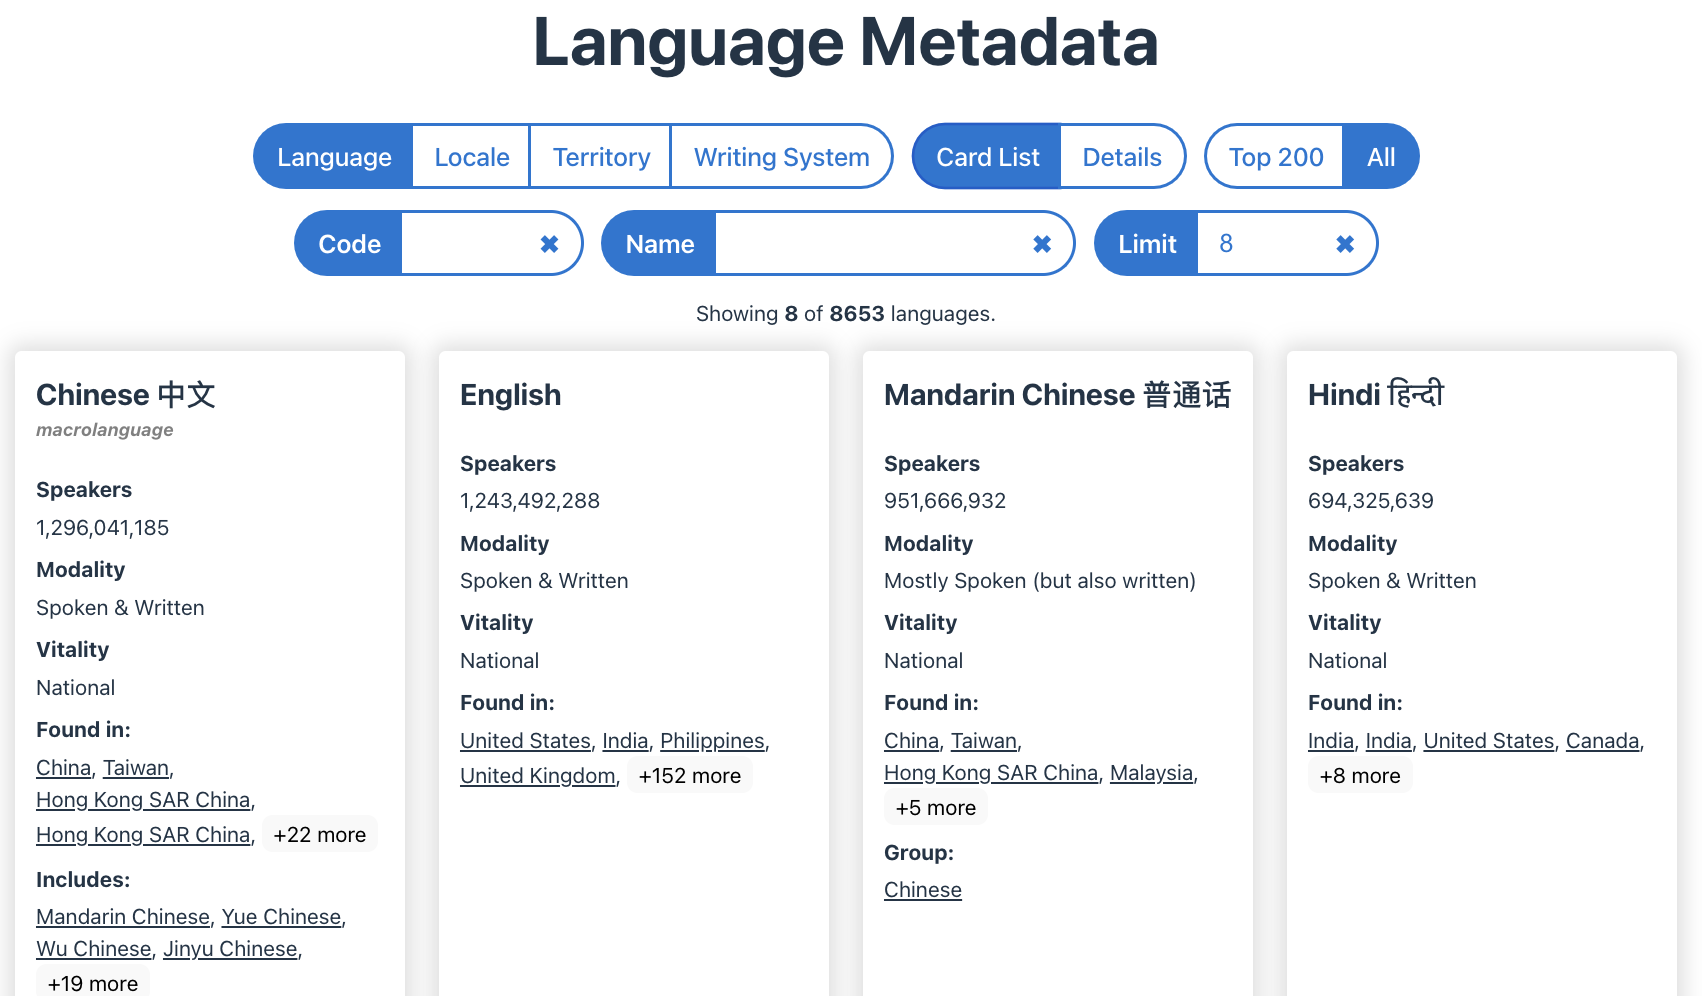
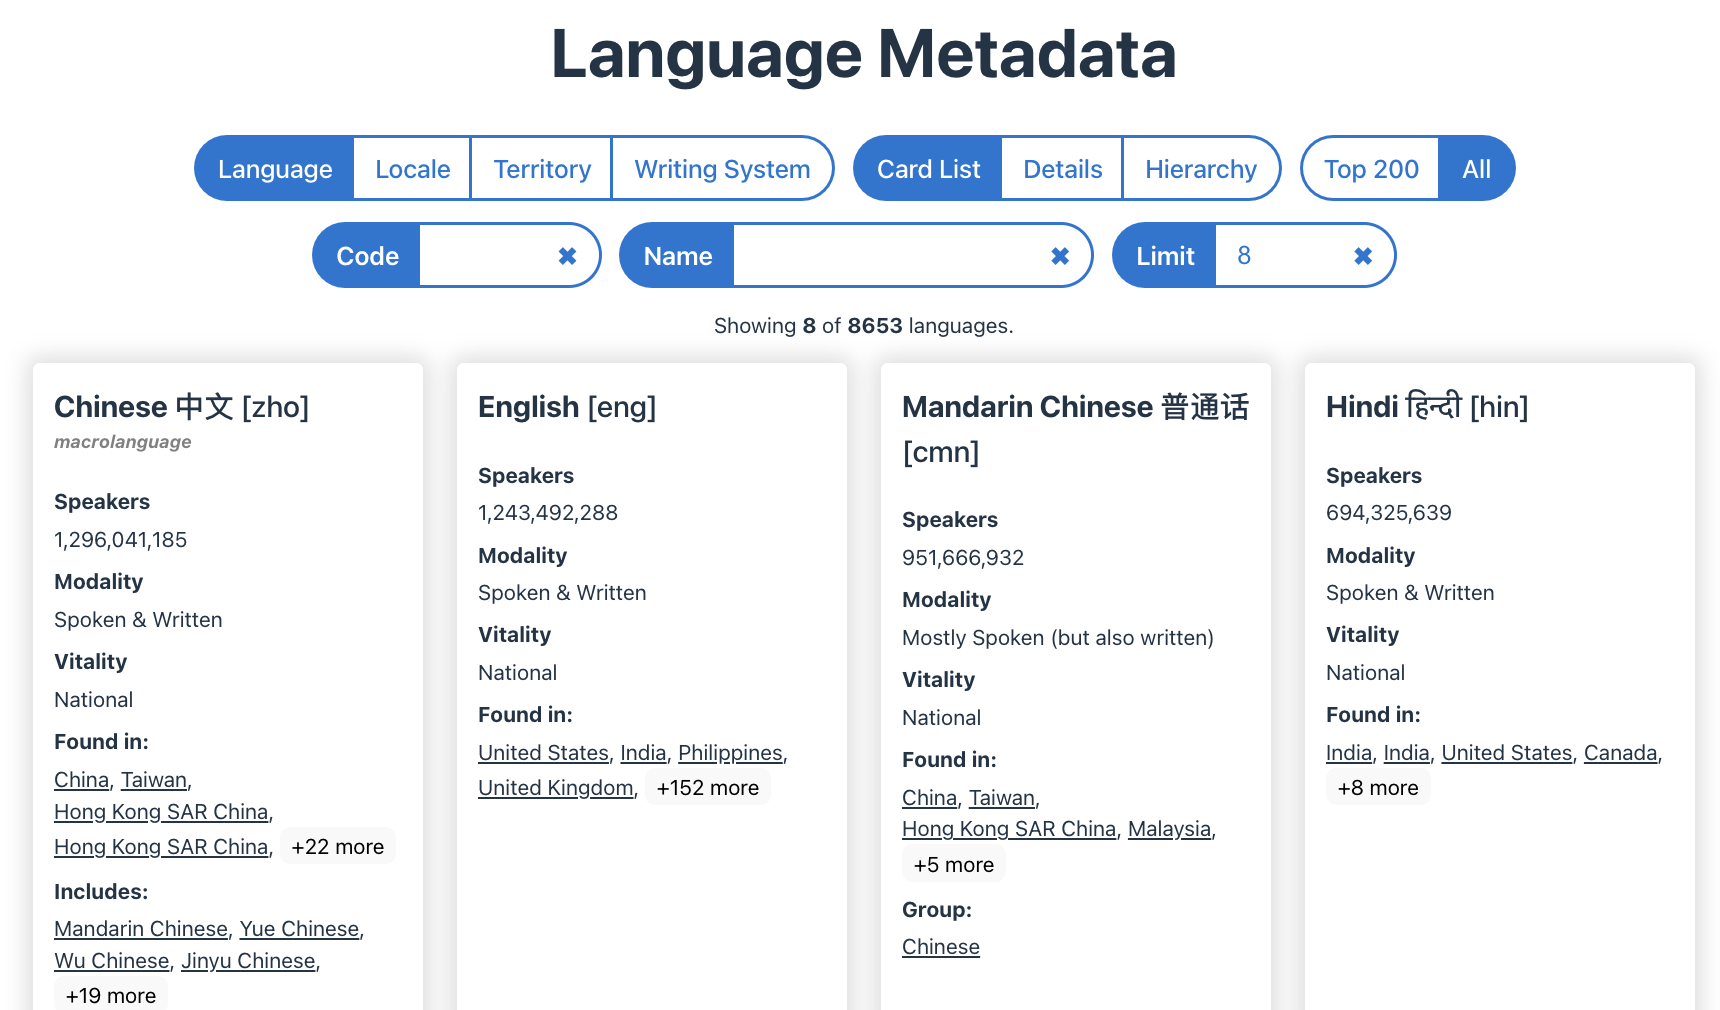
Add hierarchy view: part 1: territories

diff --git a/src/controls/ControlsBar.tsx b/src/controls/ControlsBar.tsx
@@ -3,14 +3,13 @@ import React from 'react';
 import Hoverable from '../generic/Hoverable';
 
 import ButtonGroupSingleChoice from './ButtonGroupSingleChoice';
+import FilterControls from './FilterControls';
 import { usePageParams } from './PageParamsContext';
 import { DataSubset, Dimension, ViewType } from './PageParamTypes';
-import TextInput from './TextInput';
 
 // TODO: needs debouncing on text input
 const ControlsBar: React.FC = () => {
-  const { dataSubset, viewType, dimension, updatePageParams, code, nameFilter, limit } =
-    usePageParams();
+  const { dataSubset, viewType, dimension, updatePageParams } = usePageParams();
 
   return (
     <div className="controlsBar">
@@ -41,44 +40,7 @@ const ControlsBar: React.FC = () => {
           />
         </Hoverable>
       </div>
-      <div>
-        <Hoverable
-          hoverContent={
-            viewType == ViewType.CardList
-              ? `Filter the ${dimension.toLowerCase()} by its ${dimension.toLowerCase()} code.`
-              : `Pick a ${dimension.toLowerCase()} to view.`
-          }
-        >
-          <TextInput
-            label="Code"
-            value={code}
-            onChange={(code: string) => updatePageParams({ code })}
-            inputStyle={{ width: '3em' }}
-          />
-        </Hoverable>
-        {viewType === ViewType.CardList && (
-          <Hoverable
-            hoverContent={`Filter the ${dimension.toLowerCase()} by its name. Caution: if you have too many items visible then this may jitter, so type slowly.`}
-          >
-            <TextInput
-              label="Name"
-              value={nameFilter}
-              onChange={(nameFilter: string) => updatePageParams({ nameFilter })}
-              inputStyle={{ width: '10em' }}
-            />
-          </Hoverable>
-        )}
-        {viewType === ViewType.CardList && (
-          <Hoverable hoverContent={`Limit how many ${dimension.toLowerCase()} cards are shown.`}>
-            <TextInput
-              label="Limit"
-              value={limit < 1 || Number.isNaN(limit) ? '' : limit.toString()}
-              onChange={(limit: string) => updatePageParams({ limit: parseInt(limit) })}
-              inputStyle={{ width: '3em' }}
-            />
-          </Hoverable>
-        )}
-      </div>
+      {(viewType === ViewType.CardList || viewType === ViewType.Details) && <FilterControls />}
     </div>
   );
 };

diff --git a/src/views/territory/TerritoryHierarchy.tsx b/src/views/territory/TerritoryHierarchy.tsx
@@ -1,0 +1,60 @@
+import React, { useState } from 'react';
+
+import { useDataContext } from '../../dataloading/DataContext';
+import { TerritoryData, TerritoryType } from '../../DataTypes';
+
+import HoverableTerritoryName from './HoverableTerritoryName';
+
+const TerritoryHierarchy: React.FC = () => {
+  const { territoriesByCode } = useDataContext();
+  const rootTerritories = Object.values(territoriesByCode).filter(
+    (territory) => territory.parentUNRegion == null,
+  );
+
+  return (
+    <div className="Hierarchy">
+      <ul>
+        {rootTerritories.map((territory) => (
+          <TerritoryNode key={territory.code} territory={territory} expandedInititally={true} />
+        ))}
+      </ul>
+    </div>
+  );
+};
+
+type TerritoryNodeProps = {
+  territory: TerritoryData;
+  expandedInititally?: boolean;
+};
+
+const TerritoryNode: React.FC<TerritoryNodeProps> = ({ territory, expandedInititally = false }) => {
+  const [expanded, setExpanded] = useState(expandedInititally);
+  const hasChildren = territory.regionContainsTerritories.length > 0;
+
+  return (
+    <li>
+      {hasChildren && (
+        <button onClick={() => setExpanded((prev) => !prev)}>{expanded ? `▼` : `▶`}</button>
+      )}
+      <HoverableTerritoryName
+        territory={territory}
+        style={{
+          textDecoration: 'none',
+          fontWeight: territory.territoryType === TerritoryType.Country ? 'bold' : 'normal',
+          fontStyle: territory.territoryType === TerritoryType.Dependency ? 'italic' : 'normal',
+        }}
+      />
+      {expanded && hasChildren && (
+        <ul>
+          {territory.regionContainsTerritories
+            .sort((a, b) => b.population - a.population)
+            .map((child, i) => (
+              <TerritoryNode key={child.code} territory={child} expandedInititally={i === 0} />
+            ))}
+        </ul>
+      )}
+    </li>
+  );
+};
+
+export default TerritoryHierarchy;

diff --git a/src/controls/FilterControls.tsx b/src/controls/FilterControls.tsx
@@ -1,0 +1,52 @@
+import Hoverable from '../generic/Hoverable';
+
+import { usePageParams } from './PageParamsContext';
+import { ViewType } from './PageParamTypes';
+import TextInput from './TextInput';
+
+const FilterControls: React.FC = () => {
+  const { viewType, dimension, code, updatePageParams, nameFilter, limit } = usePageParams();
+
+  return (
+    <div>
+      <Hoverable
+        hoverContent={
+          viewType == ViewType.CardList
+            ? `Filter the ${dimension.toLowerCase()} by its ${dimension.toLowerCase()} code.`
+            : `Pick a ${dimension.toLowerCase()} to view.`
+        }
+      >
+        <TextInput
+          label="Code"
+          value={code}
+          onChange={(code: string) => updatePageParams({ code })}
+          inputStyle={{ width: '3em' }}
+        />
+      </Hoverable>
+      {viewType === ViewType.CardList && (
+        <Hoverable
+          hoverContent={`Filter the ${dimension.toLowerCase()} by its name. Caution: if you have too many items visible then this may jitter, so type slowly.`}
+        >
+          <TextInput
+            label="Name"
+            value={nameFilter}
+            onChange={(nameFilter: string) => updatePageParams({ nameFilter })}
+            inputStyle={{ width: '10em' }}
+          />
+        </Hoverable>
+      )}
+      {viewType === ViewType.CardList && (
+        <Hoverable hoverContent={`Limit how many ${dimension.toLowerCase()} cards are shown.`}>
+          <TextInput
+            label="Limit"
+            value={limit < 1 || Number.isNaN(limit) ? '' : limit.toString()}
+            onChange={(limit: string) => updatePageParams({ limit: parseInt(limit) })}
+            inputStyle={{ width: '3em' }}
+          />
+        </Hoverable>
+      )}
+    </div>
+  );
+};
+
+export default FilterControls;

diff --git a/src/views/MainViews.tsx b/src/views/MainViews.tsx
@@ -8,6 +8,7 @@ import LocaleCardList from './locale/LocaleCardList';
 import LocaleDetails from './locale/LocaleDetails';
 import TerritoryCardList from './territory/TerritoryCardList';
 import TerritoryDetails from './territory/TerritoryDetails';
+import TerritoryHierarchy from './territory/TerritoryHierarchy';
 import WritingSystemCardList from './writingsystem/WritingSystemCardList';
 import WritingSystemDetails from './writingsystem/WritingSystemDetails';
 import './styles.css';
@@ -21,6 +22,8 @@ function MainViews() {
           return <LanguageCardList />;
         case ViewType.Details:
           return <LanguageDetails />;
+        case ViewType.Hierarchy:
+          return 'Not yet implemented';
       }
     case Dimension.Territory:
       switch (viewType) {
@@ -28,6 +31,8 @@ function MainViews() {
           return <TerritoryCardList />;
         case ViewType.Details:
           return <TerritoryDetails />;
+        case ViewType.Hierarchy:
+          return <TerritoryHierarchy />;
       }
     case Dimension.Locale:
       switch (viewType) {
@@ -35,6 +40,8 @@ function MainViews() {
           return <LocaleCardList />;
         case ViewType.Details:
           return <LocaleDetails />;
+        case ViewType.Hierarchy:
+          return 'Not yet implemented';
       }
     case Dimension.WritingSystem:
       switch (viewType) {
@@ -42,6 +49,8 @@ function MainViews() {
           return <WritingSystemCardList />;
         case ViewType.Details:
           return <WritingSystemDetails />;
+        case ViewType.Hierarchy:
+          return 'Not yet implemented';
       }
   }
 }

diff --git a/src/views/styles.css b/src/views/styles.css
@@ -50,6 +50,7 @@ a {
     color: inherit;
     cursor: pointer;
 }
+
 a:hover {
     color: inherit;
     text-decoration: underline;
@@ -62,6 +63,49 @@ a:hover {
     gap: 1em;
     justify-content: center;
     margin-top: 1em;
+}
+
+.Hierarchy {
+    text-align: start;
+}
+
+.Hierarchy ul {
+    list-style: none;
+    margin: 0;
+    position: relative;
+    margin-left: 16px;
+    padding-left: 25px;
+}
+
+.Hierarchy ul::before {
+    content: '';
+    position: absolute;
+    bottom: 10px;
+    /* so the last child has an L not a T */
+    left: 0;
+    border-left: 2px solid #ccc;
+    height: 100%; /* TODO change here to stop at bottom? */
+    z-index: -1;
+}
+
+.Hierarchy li {
+    position: relative;
+}
+
+.Hierarchy li::before {
+    content: '';
+    position: absolute;
+    top: 0.75em;
+    left: -25px;
+    width: 18px;
+    border-top: 2px solid #ccc;
+    background: transparent;
+}
+
+.Hierarchy button {
+    margin: 0;
+    margin-right: 4px; 
+    padding: 0 10px;
 }
 
 @media (min-width: 0px) {

diff --git a/src/generic/Hoverable.tsx b/src/generic/Hoverable.tsx
@@ -6,9 +6,10 @@ type HoverableProps = {
   children: React.ReactNode;
   hoverContent: React.ReactNode;
   onClick?: () => void;
+  style?: React.CSSProperties;
 };
 
-const Hoverable: React.FC<HoverableProps> = ({ children, hoverContent, onClick }) => {
+const Hoverable: React.FC<HoverableProps> = ({ children, hoverContent, onClick, style }) => {
   const { showHoverCard, hideHoverCard } = useHoverCard();
 
   const handleMouseEnter = (e: React.MouseEvent) => {
@@ -34,6 +35,7 @@ const Hoverable: React.FC<HoverableProps> = ({ children, hoverContent, onClick }
         display: 'inline-block',
         textDecoration: 'underline',
         cursor: onClick ? 'pointer' : 'auto',
+        ...style,
       }}
     >
       {children}

diff --git a/src/views/territory/HoverableTerritoryName.tsx b/src/views/territory/HoverableTerritoryName.tsx
@@ -10,9 +10,10 @@ import TerritoryCard from './TerritoryCard';
 type Props = {
   territory: TerritoryData;
   format?: 'text' | 'button';
+  style?: React.CSSProperties;
 };
 
-const HoverableTerritoryName: React.FC<Props> = ({ territory, format = 'text' }) => {
+const HoverableTerritoryName: React.FC<Props> = ({ territory, format = 'text', style }) => {
   const { updatePageParams } = usePageParams();
 
   return (
@@ -25,6 +26,7 @@ const HoverableTerritoryName: React.FC<Props> = ({ territory, format = 'text' })
           dimension: Dimension.Territory,
         })
       }
+      style={style}
     >
       {format === 'text' ? territory.nameDisplay : <button>{territory.nameDisplay}</button>}
     </Hoverable>

diff --git a/src/controls/PageParamTypes.tsx b/src/controls/PageParamTypes.tsx
@@ -9,7 +9,7 @@ export enum Dimension {
 export enum ViewType {
   CardList = 'Card List',
   Details = 'Details',
-  //   Hierarchy = 'hierarchy',
+  Hierarchy = 'Hierarchy',
   //   Table = 'table',
 }
 

diff --git a/README.md b/README.md
@@ -13,7 +13,7 @@ The data comes from multiple sources, primarily [CLDR](https://github.com/unicod
 
 Here's a list of planned functionality. Completed functions are checked off.
 
-- [ ] Language-adjacent objects
+- [x] Language-adjacent objects
   - [x] Languages
     - [x] Core attributes
     - [x] ISO parent/child connections
@@ -21,7 +21,7 @@ Here's a list of planned functionality. Completed functions are checked off.
     - [ ] Digital Support details
   - [x] Territories
     - [x] Countries & Dependencies
-    - [ ] Continents & other regions
+    - [ ] Continents & other regions - _in progress_
   - [x] Locales (languages + territories + potentially other specificity)
     - [x] Basic data
     - [ ] Population estimate sources
@@ -29,18 +29,19 @@ Here's a list of planned functionality. Completed functions are checked off.
     - [x] Basic data
     - [ ] Relationship w/ other writing systems (containment, lineage)
   - [ ] Language Variants / IANA tags
-- [ ] Views
+- [x] Views
   - [x] Cards
   - [x] Details
-  - [ ] Hierarchy
+  - [ ] Hierarchy - _in progress_
   - [ ] Table
   - [ ] Map
-- [ ] Interactivity
-  - [ ] Filter
+- [x] Interactivity
+  - [x] Filter
     - [x] By Code
     - [x] By Name
+    - [x] Highlight search
     - [ ] Using typeahead
-  - [ ] Hovercard & Tooltips
+  - [x] Hovercard & Tooltips
     - [x] Related objects
     - [ ] Field explanations
   - [ ] Sort
